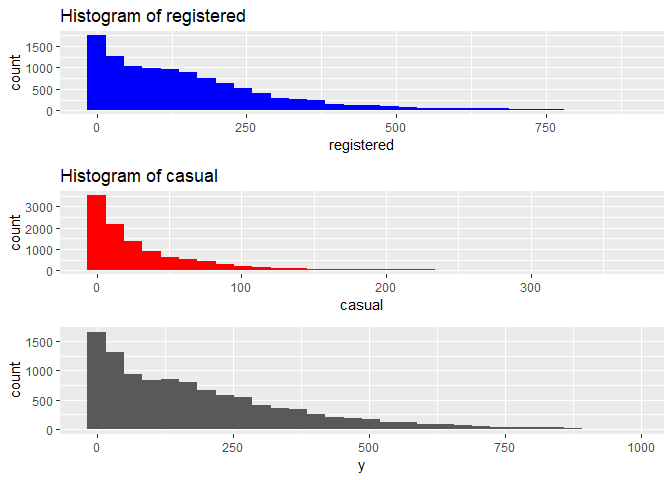
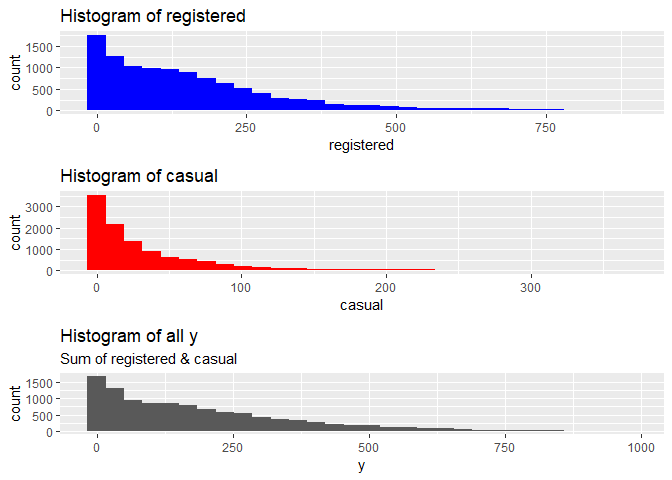
add link

Changed region(s): [[0.0, 0.6875, 0.8438, 0.9062]]

diff --git a/Bike_Sharing_Demand_md.md b/Bike_Sharing_Demand_md.md
@@ -10,14 +10,13 @@ Github에 업로드 하기 위하여 작성된 문서입니다.
 분석 과정 목차
 --------------
 
-1.  변수 정의
-2.  분석 과정
-    -   데이터 구조 확인
-    -   사전 가설 수립(Make insight)
-    -   EDA / Data preprocessing
-    -   Modeling
-    -   MSE Checking
-3.  결론
+[1. 변수 정의](##%20변수-정의)
+[2. 분석 과정](##%20분석-과정)
+[\* 데이터 구조 확인](###%20데이터-구조-확인)
+[\* 사전 가설 수립(Make insight)](###%20가설-사전-수립(Make-insights))
+[\* EDA / Data preprocessing](###%20Exproratory-Data-Analysis-(EDA)) [\* Modeling](###%20Modeling)
+
+[3. 결론](##%20한계점)
 
 ------------------------------------------------------------------------
 
@@ -61,7 +60,7 @@ Github에 업로드 하기 위하여 작성된 문서입니다.
 분석 과정
 ---------
 
-### 데이터 구조확인
+### 데이터 구조 확인
 
 **Initialize**
 
@@ -489,6 +488,7 @@ ggplot(data = train, aes(train$y))+
 -&gt; 또한 변수의 성질(0 이상의 정수)에 따라서 Possion regression의 적합을 생각할 수 있다.
 
 **Checking additional Y (Casual & Registered)**
+
 본 데이터에는, casual(회원의 count) + registered(비회원의 count) = y(총 카운트 합) 으로 총 3가지의 종속변수가 존재한다고 볼 수 있다.
 분포의 차이를 확인하고 각각 다른 모형에 적합시키는 방법을 고려해 볼 수 있다.
 
@@ -549,7 +549,9 @@ B <- ggplot(data = data, aes(x = casual)) +
     geom_histogram(fill = 'red') +
     labs(title = 'Histogram of casual')
 C <- ggplot(data = data, aes(x = y))+
-     geom_histogram()
+    geom_histogram() +
+    labs(title = 'Histogram of all y',
+         subtitle = 'Sum of registered & casual')
 
 grid.arrange(A, B, C, nrow = 3)
 ```
@@ -571,6 +573,7 @@ grid.arrange(A, B, C, nrow = 3)
 -&gt; 두 종속변수의 구성요소가 명확히 다른 분포를 갖는 것을 확인할 수 있으며, 나누어 예측하는 것이 적절하다.
 
 ``` r
+#workingday로 구분하여 확인하는 casual과 registered의 분포 차이
 A <- ggplot(data = train, aes(x = datetime, y = casual, color = factor(workingday))) +
     geom_point() +
     labs(title = 'Scatter plot of data',
@@ -1289,7 +1292,8 @@ write.csv(sampleSubmission_2, file = 'smapleSubmission_github_2.csv', row.names 
 
 ------------------------------------------------------------------------
 
-**한계점**
+한계점
+------
 
 현재 점수는 WindSpeed(풍속) 변수의 0값이 많은 것을 적절한 값으로 채우지 못한 결과이다.
 즉 EDA과정에서 누락된 부분이 존재하므로, 추후에 수정과정을 통하여 더 나은 결과를 얻어야 할 것이다.
